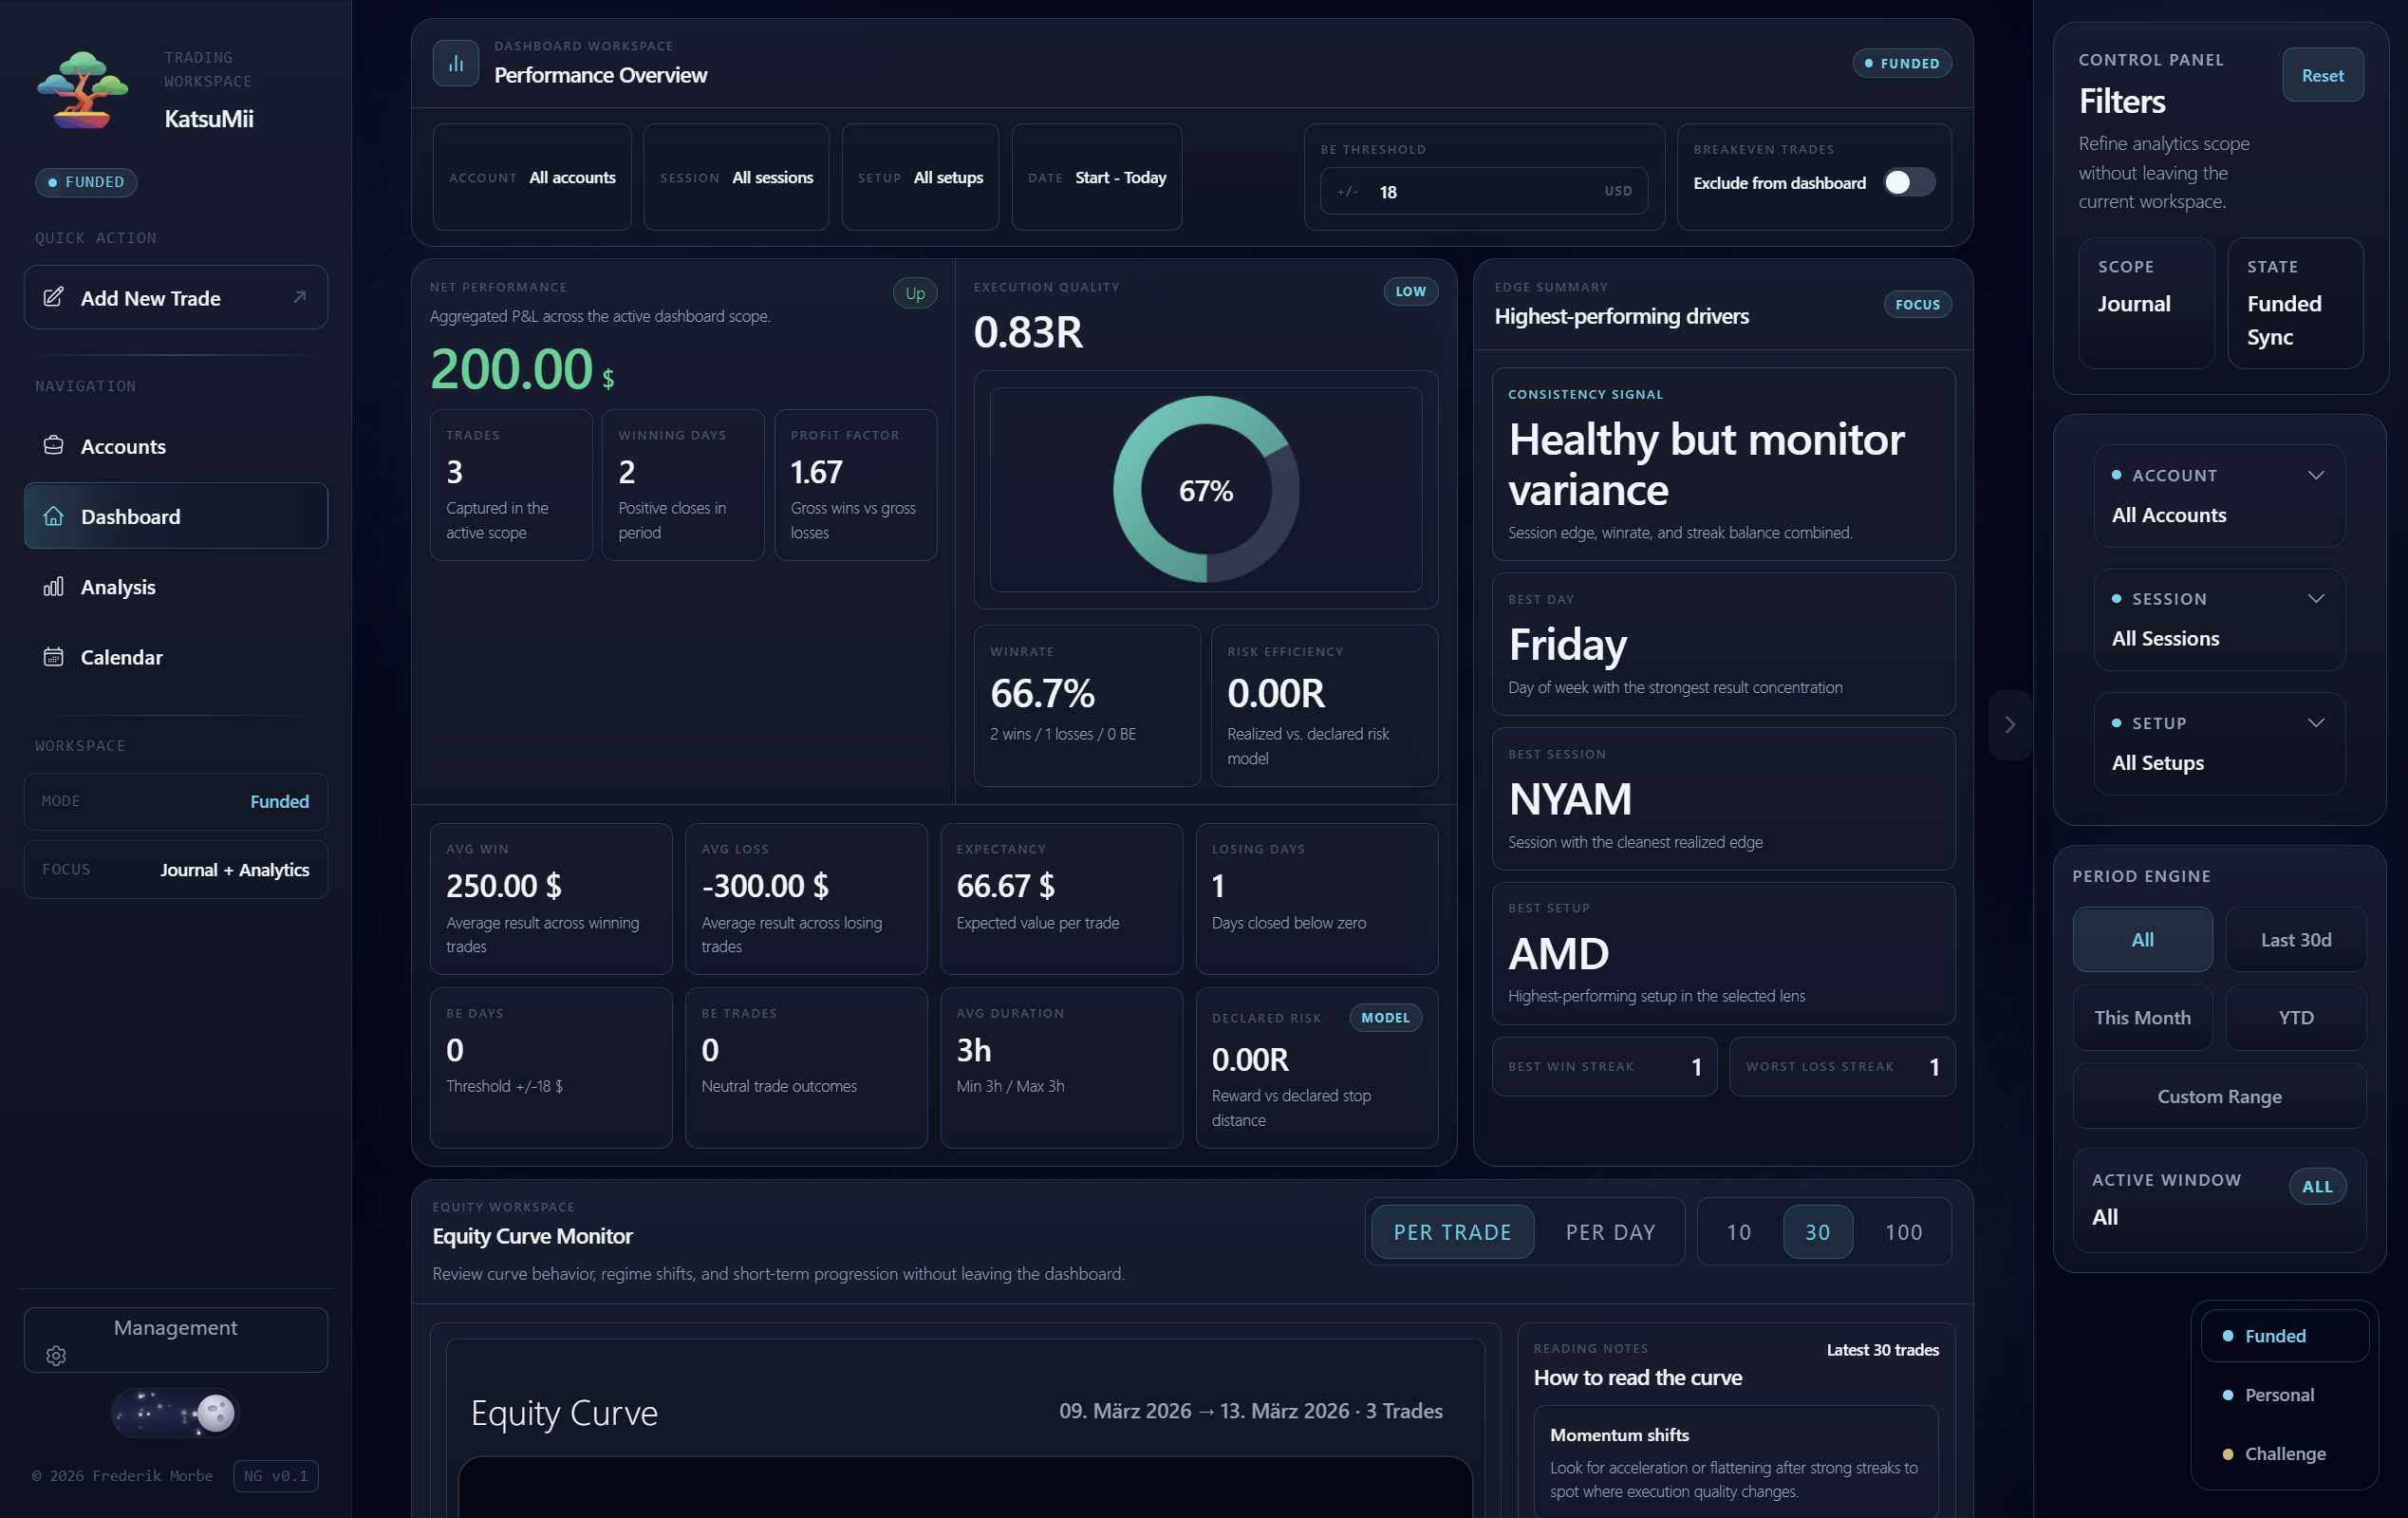
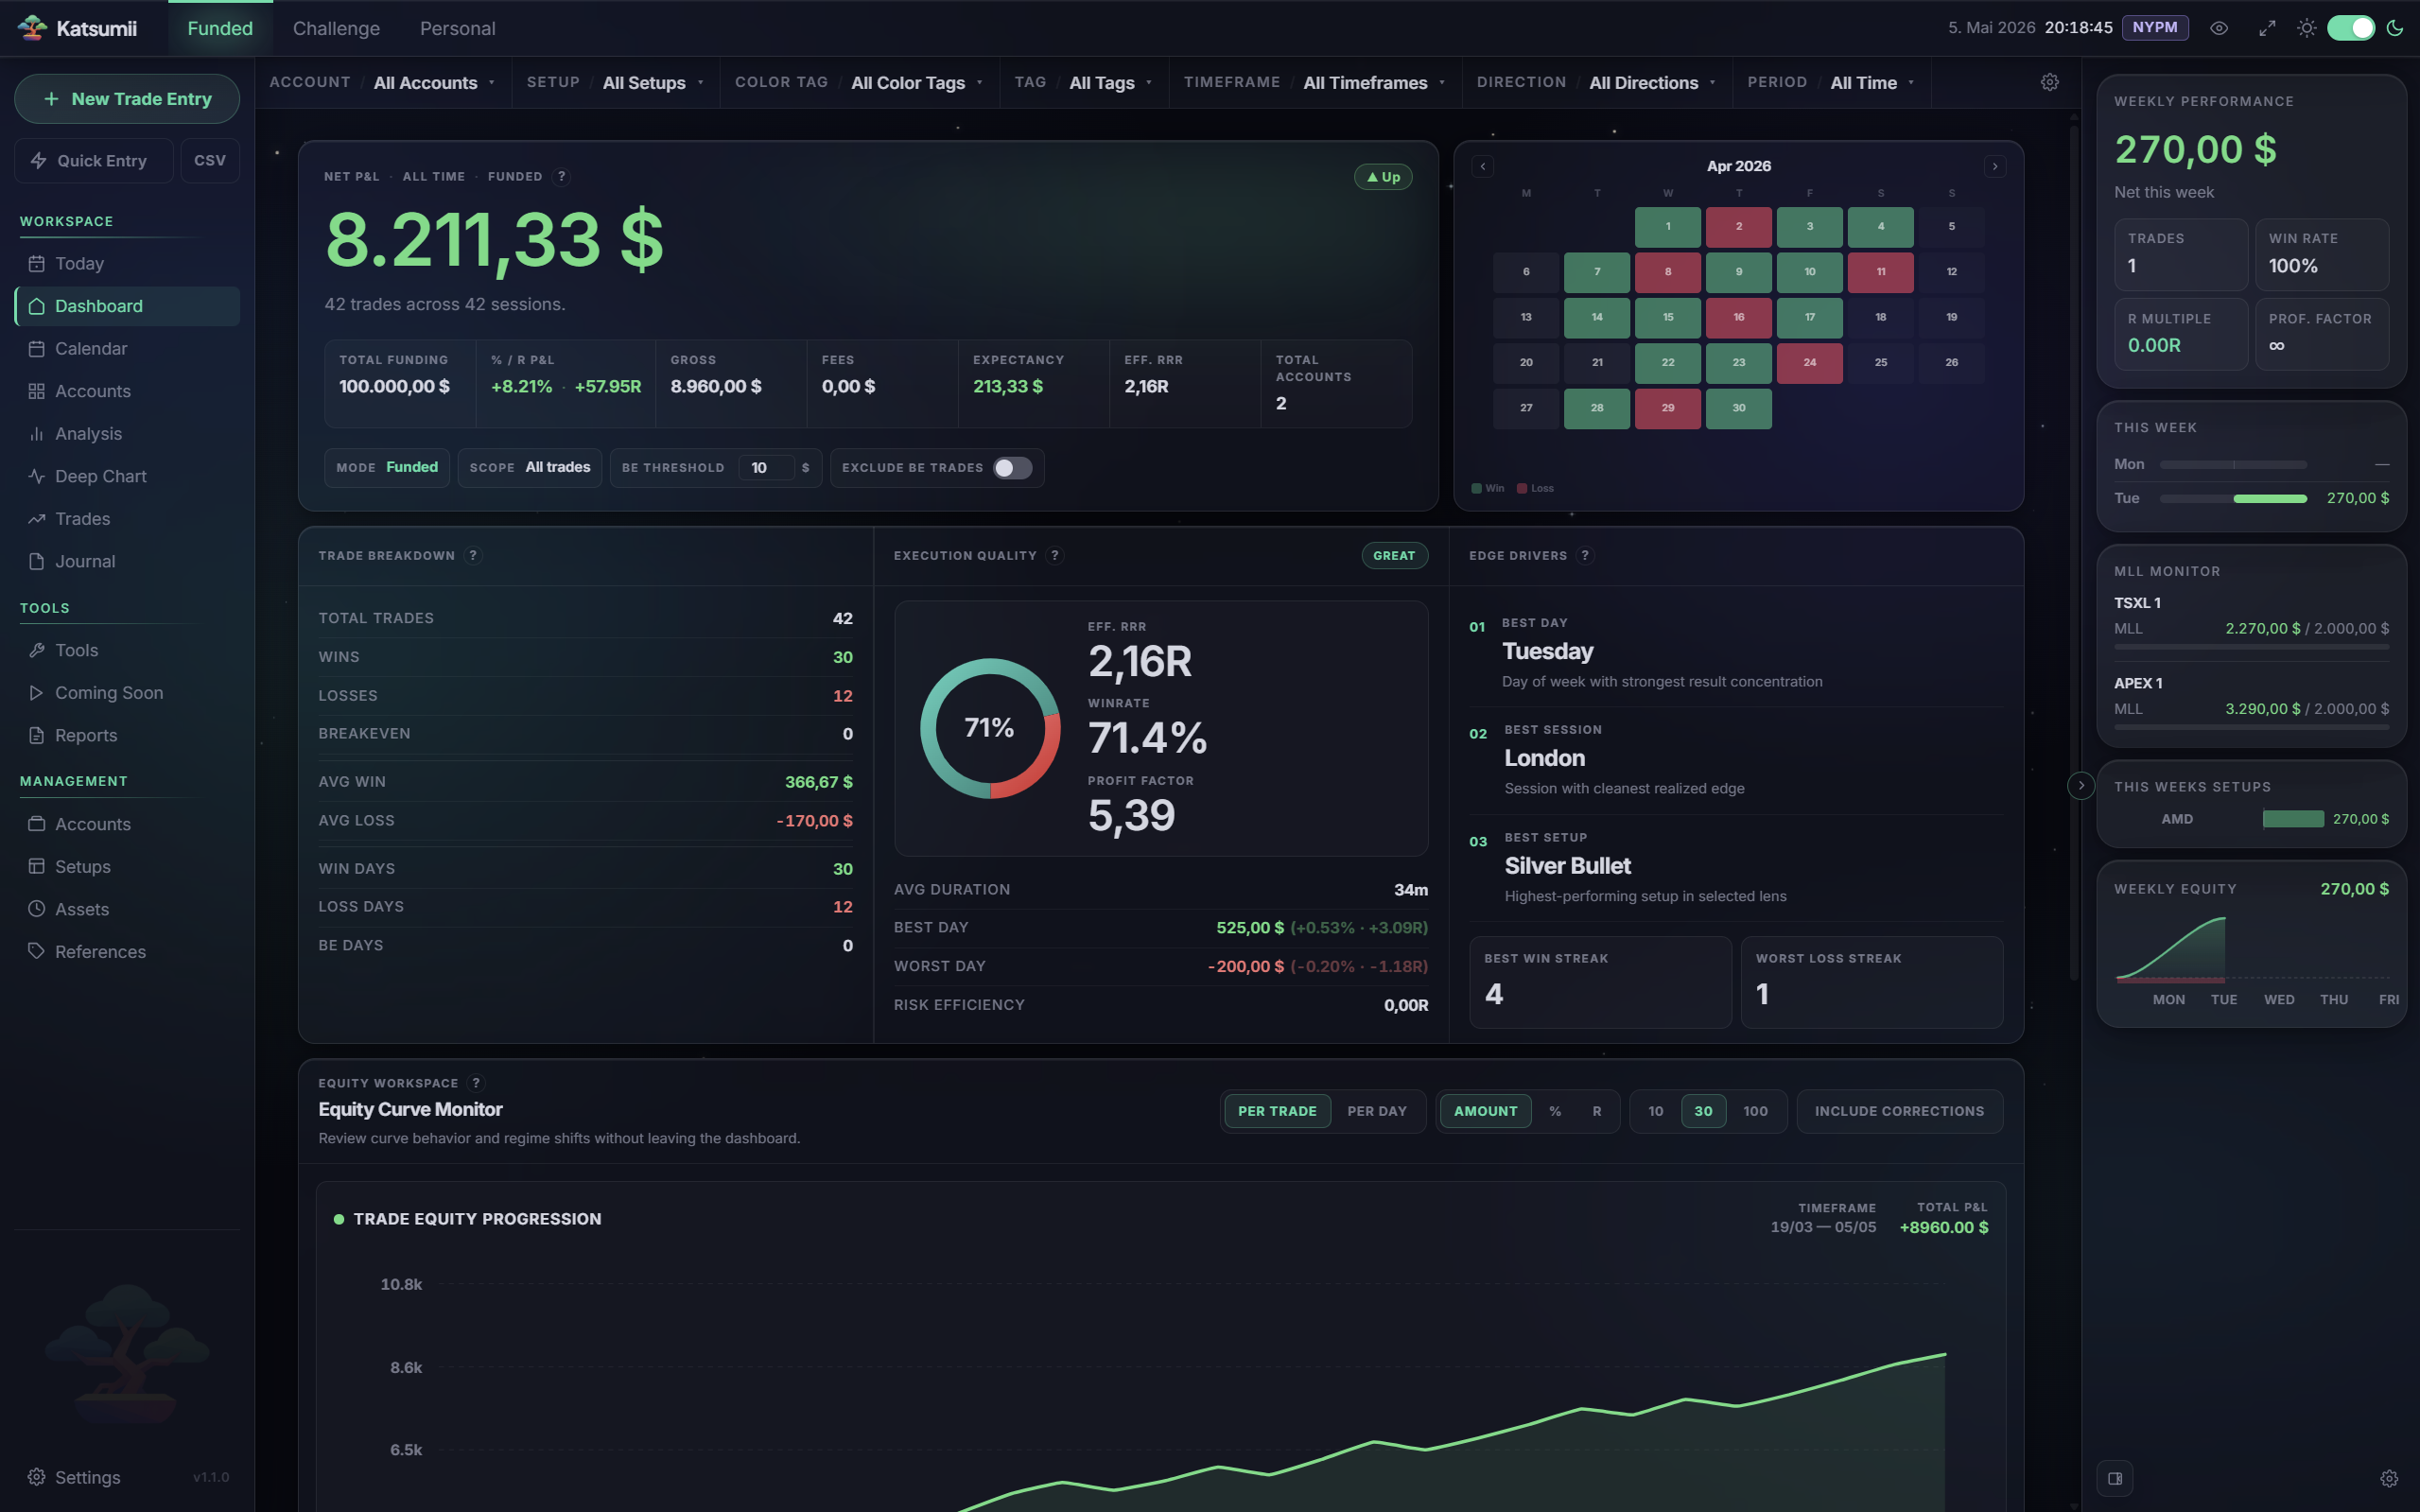
Expand FAQ, link CTAs to pricing page, add broker sync note and feature stats
- Replace checkout URL links with RouterLink to pricing page in Hero and DemoCta
- Add heroFeatureStats i18n key and broker sync info banner in HomeFeatures
- Expand FaqPage with 10 new German Q&A entries
- Fix BgSwitch selectedOption computed; remove stale localStorage write
- Add cursor/user-select CSS for nav interactive elements
- Update Dashboard screenshots

diff --git a/src/components/FaqPage.vue b/src/components/FaqPage.vue
@@ -118,29 +118,59 @@ const navigation = [
 
 const faqItems = [
   {
-    category: "License",
+    category: "Allgemein",
+    question: "Was ist Katsumii?",
+    answer: "Katsumii ist ein Trading Journal zum Erfassen von Trades, Accounts, Setups, Screenshots, Journalnotizen, Performance-Statistiken und Reports.",
+  },
+  {
+    category: "Lizenz",
     question: "Ist Katsumii ein Abo oder eine Einmalzahlung?",
     answer: "Katsumii ist als One-Time-License gedacht. Du zahlst einmal und kannst die App lokal nutzen, ohne monatliche Gebuehren.",
   },
   {
-    category: "Privacy",
-    question: "Werden meine Trading-Daten in eine Cloud geladen?",
-    answer: "Nein. Der Fokus liegt auf offline-first. Deine Daten bleiben lokal auf deinem Geraet.",
+    category: "Nutzung",
+    question: "Welche Account-Typen werden unterstuetzt?",
+    answer: "Katsumii unterstuetzt Funded Accounts, Challenge-/Demo-Accounts und persoenliche Accounts. Jeder Modus fuehrt eigene Accounts und Trades getrennt voneinander.",
   },
   {
-    category: "Usage",
-    question: "Kann ich mehrere Prop- und Personal-Accounts verwalten?",
-    answer: "Ja, genau dafuer ist Katsumii gebaut. Du kannst mehrere Accounts parallel organisieren und getrennt auswerten.",
+    category: "Prop Trading",
+    question: "Kann ich Prop-Firm-Challenges tracken?",
+    answer: "Ja. Challenge-Accounts koennen Profit-Targets, Max-Loss, Daily-Loss-Limits, Trailing Drawdown, Activity Requirements, Consistency Rules, Zeitlimits und weitere Prop-Firm-Regeln abbilden.",
+  },
+  {
+    category: "Datenschutz",
+    question: "Wo werden meine Daten gespeichert?",
+    answer: "Alle Daten liegen lokal auf deinem Geraet. Das Backend nutzt eine lokale SQLite-Datenbank, Bilder werden in lokalen Upload-Ordnern gespeichert.",
+  },
+  {
+    category: "Datenschutz",
+    question: "Braucht Katsumii eine Internetverbindung?",
+    answer: "Nein. Journal, Accounts, Trades und Reports sind vollstaendig lokale Features. Deine Kerndaten sind jederzeit offline verfuegbar.",
   },
   {
     category: "Features",
-    question: "Unterstuetzt die App Screenshots und Trade-Notizen?",
-    answer: "Ja. Du kannst zu Trades Screenshots, Notizen, Setups, Fehler und Review-Eintraege dokumentieren.",
+    question: "Welche Informationen kann ich zu einem Trade speichern?",
+    answer: "Du kannst P&L, Risiko, Richtung, Groesse, Asset, Setup, geplantes R:R, Pips/Punkte, Entry/Exit, Zeiten, Duration, Fees, Mood, Mistakes, Tags, Timeframe, Farbe, Links, Notizen und bis zu vier Screenshots speichern.",
   },
   {
-    category: "Updates",
-    question: "Wie erhalte ich neue Versionen?",
-    answer: "Neue Versionen werden ueber deine offiziellen Download-Kanaele bereitgestellt. Changelog und Hinweise sind im Resource-Bereich vorgesehen.",
+    category: "Import / Export",
+    question: "Kann ich Trades aus CSV importieren?",
+    answer: "Ja. Der CSV-Import-Wizard fuehrt durch Upload, Spalten-Mapping, Vorschau, Duplikat-Pruefung und finalen Import. Vorgefertigte Presets fuer Tradovate, NinjaTrader, Rithmic, TopstepX und Interactive Brokers sind enthalten.",
+  },
+  {
+    category: "Statistiken",
+    question: "Welche Statistiken berechnet Katsumii?",
+    answer: "P&L, Win Rate, Profit Factor, Effective R:R, Planned R:R, Expectancy, Trade Count, Average Win/Loss, Best/Worst Trade, Streaks, Winning Days, Drawdown Distance, Daily Loss Distance und Consistency-Metriken.",
+  },
+  {
+    category: "Features",
+    question: "Kann ich Reports erstellen?",
+    answer: "Ja. Katsumii enthaelt einen Strategy Report und einen HTML Performance Report – ein offline-faehiges Dokument mit Equity Curve, Calendar Heatmap und Auswertungen nach Tag, Session, Setup und weiteren Filtern.",
+  },
+  {
+    category: "Daten",
+    question: "Werden Backups unterstuetzt?",
+    answer: "Ja. Katsumii unterstuetzt Backup-Export und -Import, Wiederherstellung des letzten Backups, benutzerdefinierte Backup-Pfade, Retention-Einstellungen und automatische Backups (woechentlich oder monatlich).",
   },
   {
     category: "Support",

diff --git a/src/components/home/HomeHero.vue b/src/components/home/HomeHero.vue
@@ -47,10 +47,8 @@
         </p>
 
         <div class="mt-9 flex flex-col gap-3 sm:flex-row sm:flex-wrap">
-          <a
-            :href="checkoutUrl"
-            :target="linkTarget(checkoutUrl)"
-            :rel="linkRel(checkoutUrl)"
+          <RouterLink
+            :to="pagePath('pricing')"
             :class="[
               'inline-flex min-h-12 items-center justify-center rounded-full px-6 py-3 text-sm font-bold transition-all duration-300 hover:-translate-y-0.5',
               theme === 'light'
@@ -59,7 +57,7 @@
             ]"
           >
             {{ t('hero.ctaBuy') }}
-          </a>
+          </RouterLink>
           <a
             href="#showcase"
             :class="[
@@ -80,7 +78,7 @@
           <div
             v-for="item in heroStats"
             :key="`hero-proof-${item.label}`"
-            class="px-3 py-3"
+            class="px-3 py-3 text-center"
           >
             <p :class="['text-sm font-bold sm:text-base', theme === 'light' ? 'text-gray-950' : 'text-slate-50']">{{ item.value }}</p>
             <p :class="['mt-1 text-[11px] leading-tight', theme === 'light' ? 'text-gray-500' : 'text-slate-400']">{{ item.label }}</p>
@@ -130,7 +128,7 @@
             ]"
           >
             <div
-              v-for="item in heroStats"
+              v-for="item in heroFeatureStats"
               :key="item.label"
               class="px-3 py-3 text-center"
             >
@@ -147,17 +145,16 @@
 <script setup>
 import { computed, onMounted, onUnmounted, ref } from "vue"
 import { useI18n } from "vue-i18n"
+import { pagePath } from "../../utils/routes.js"
 
 defineProps({
   theme: { type: String, required: true },
   assetUrl: { type: Function, required: true },
-  checkoutUrl: { type: String, required: true },
-  linkTarget: { type: Function, required: true },
-  linkRel: { type: Function, required: true },
 })
 
 const { t, tm } = useI18n()
 const heroStats = computed(() => tm('heroStats'))
+const heroFeatureStats = computed(() => tm('heroFeatureStats'))
 const typedWordEl = ref(null)
 let typingTimer = null
 

diff --git a/src/components/AppNav.vue b/src/components/AppNav.vue
@@ -186,6 +186,19 @@ onUnmounted(() => {
   filter: drop-shadow(0 10px 18px rgba(15, 118, 110, 0.16));
 }
 
+:deep(a),
+:deep(button),
+:deep([role="button"]) {
+  cursor: pointer;
+  user-select: none;
+}
+
+:deep(a *),
+:deep(button *),
+:deep([role="button"] *) {
+  cursor: inherit;
+}
+
 /* Scale down the 100×40px switch to fit the 64px-tall navbar */
 .theme-switch-wrap {
   display: flex;

diff --git a/src/components/home/HomeFeatures.vue b/src/components/home/HomeFeatures.vue
@@ -35,6 +35,16 @@
         </div>
       </div>
 
+      <div
+        class="reveal mt-5 flex max-w-4xl items-start gap-3 rounded-2xl border px-4 py-3 sm:items-center"
+        :class="theme === 'light' ? 'border-teal-200/80 bg-teal-50/75 text-gray-700 shadow-sm' : 'border-cyan-300/20 bg-cyan-400/10 text-slate-300'"
+      >
+        <InformationCircleIcon class="mt-0.5 h-5 w-5 flex-none sm:mt-0" :class="theme === 'light' ? 'text-teal-600' : 'text-cyan-200'" />
+        <p class="text-sm leading-relaxed">
+          {{ t('brokerSyncNote') }}
+        </p>
+      </div>
+
       <article
         class="reveal feature-spotlight k-main-tile k-glass mt-10 grid gap-8 overflow-hidden border p-5 sm:p-8 lg:grid-cols-[1.05fr_1fr] lg:gap-12"
         :class="theme === 'light' ? 'border-gray-200/85 bg-white/82 shadow-[0_24px_80px_-48px_rgba(15,23,42,0.38)]' : 'border-cyan-300/18 bg-slate-900/72 shadow-[0_28px_90px_-54px_rgba(0,0,0,0.82)]'"
@@ -110,7 +120,7 @@
 import { computed } from "vue"
 import { useI18n } from "vue-i18n"
 import { CheckIcon } from "@heroicons/vue/20/solid"
-import { ChartBarIcon, CloudArrowUpIcon, LockClosedIcon, ServerIcon } from "@heroicons/vue/24/outline"
+import { ChartBarIcon, CloudArrowUpIcon, InformationCircleIcon, LockClosedIcon, ServerIcon } from "@heroicons/vue/24/outline"
 
 defineProps({
   theme: { type: String, required: true },

diff --git a/src/components/BgSwitch.vue b/src/components/BgSwitch.vue
@@ -7,7 +7,7 @@
           ? 'text-gray-600 hover:bg-gray-100 hover:text-gray-900'
           : 'text-slate-300 hover:bg-slate-800/80 hover:text-slate-100'
       ]"
-      :title="OPTIONS.find(o => o.value === modelValue)?.label ?? 'Background'"
+      :title="selectedOption?.label ?? 'Background'"
     >
       <SwatchIcon class="h-4 w-4" />
     </MenuButton>
@@ -77,8 +77,11 @@ const OPTIONS = computed(() =>
   ALL_OPTIONS.filter(o => !o.darkOnly || props.theme === "dark")
 )
 
+const selectedOption = computed(() =>
+  OPTIONS.value.find((option) => option.value === props.modelValue)
+)
+
 const select = (val) => {
-  localStorage.setItem("katsumii-bg", val)
   emit("update:modelValue", val)
 }
 </script>

diff --git a/src/components/home/HomeDemoCta.vue b/src/components/home/HomeDemoCta.vue
@@ -41,7 +41,7 @@
       </ul>
 
       <RouterLink
-        :to="appHomePath"
+        :to="pagePath('pricing')"
         class="mt-7 inline-flex rounded-full border px-6 py-2.5 text-sm font-semibold transition-all duration-300 hover:-translate-y-0.5"
         :class="theme === 'light' ? 'border-gray-300 text-gray-700 hover:bg-gray-50' : 'border-blue-400/30 text-slate-200 hover:bg-slate-800/60'"
       >
@@ -54,7 +54,7 @@
 <script setup>
 import { useI18n } from "vue-i18n"
 import { CheckIcon } from "@heroicons/vue/20/solid"
-import { appHomePath } from "../../utils/routes.js"
+import { pagePath } from "../../utils/routes.js"
 
 defineProps({
   theme: { type: String, required: true },

diff --git a/src/App.vue b/src/App.vue
@@ -17,9 +17,6 @@
       <HomeHero
         :theme="theme"
         :asset-url="assetUrl"
-        :checkout-url="checkoutUrl"
-        :link-target="linkTarget"
-        :link-rel="linkRel"
       />
       <HomeFeatures :theme="theme" :asset-url="assetUrl" />
       <HomeShowcase :theme="theme" :asset-url="assetUrl" />